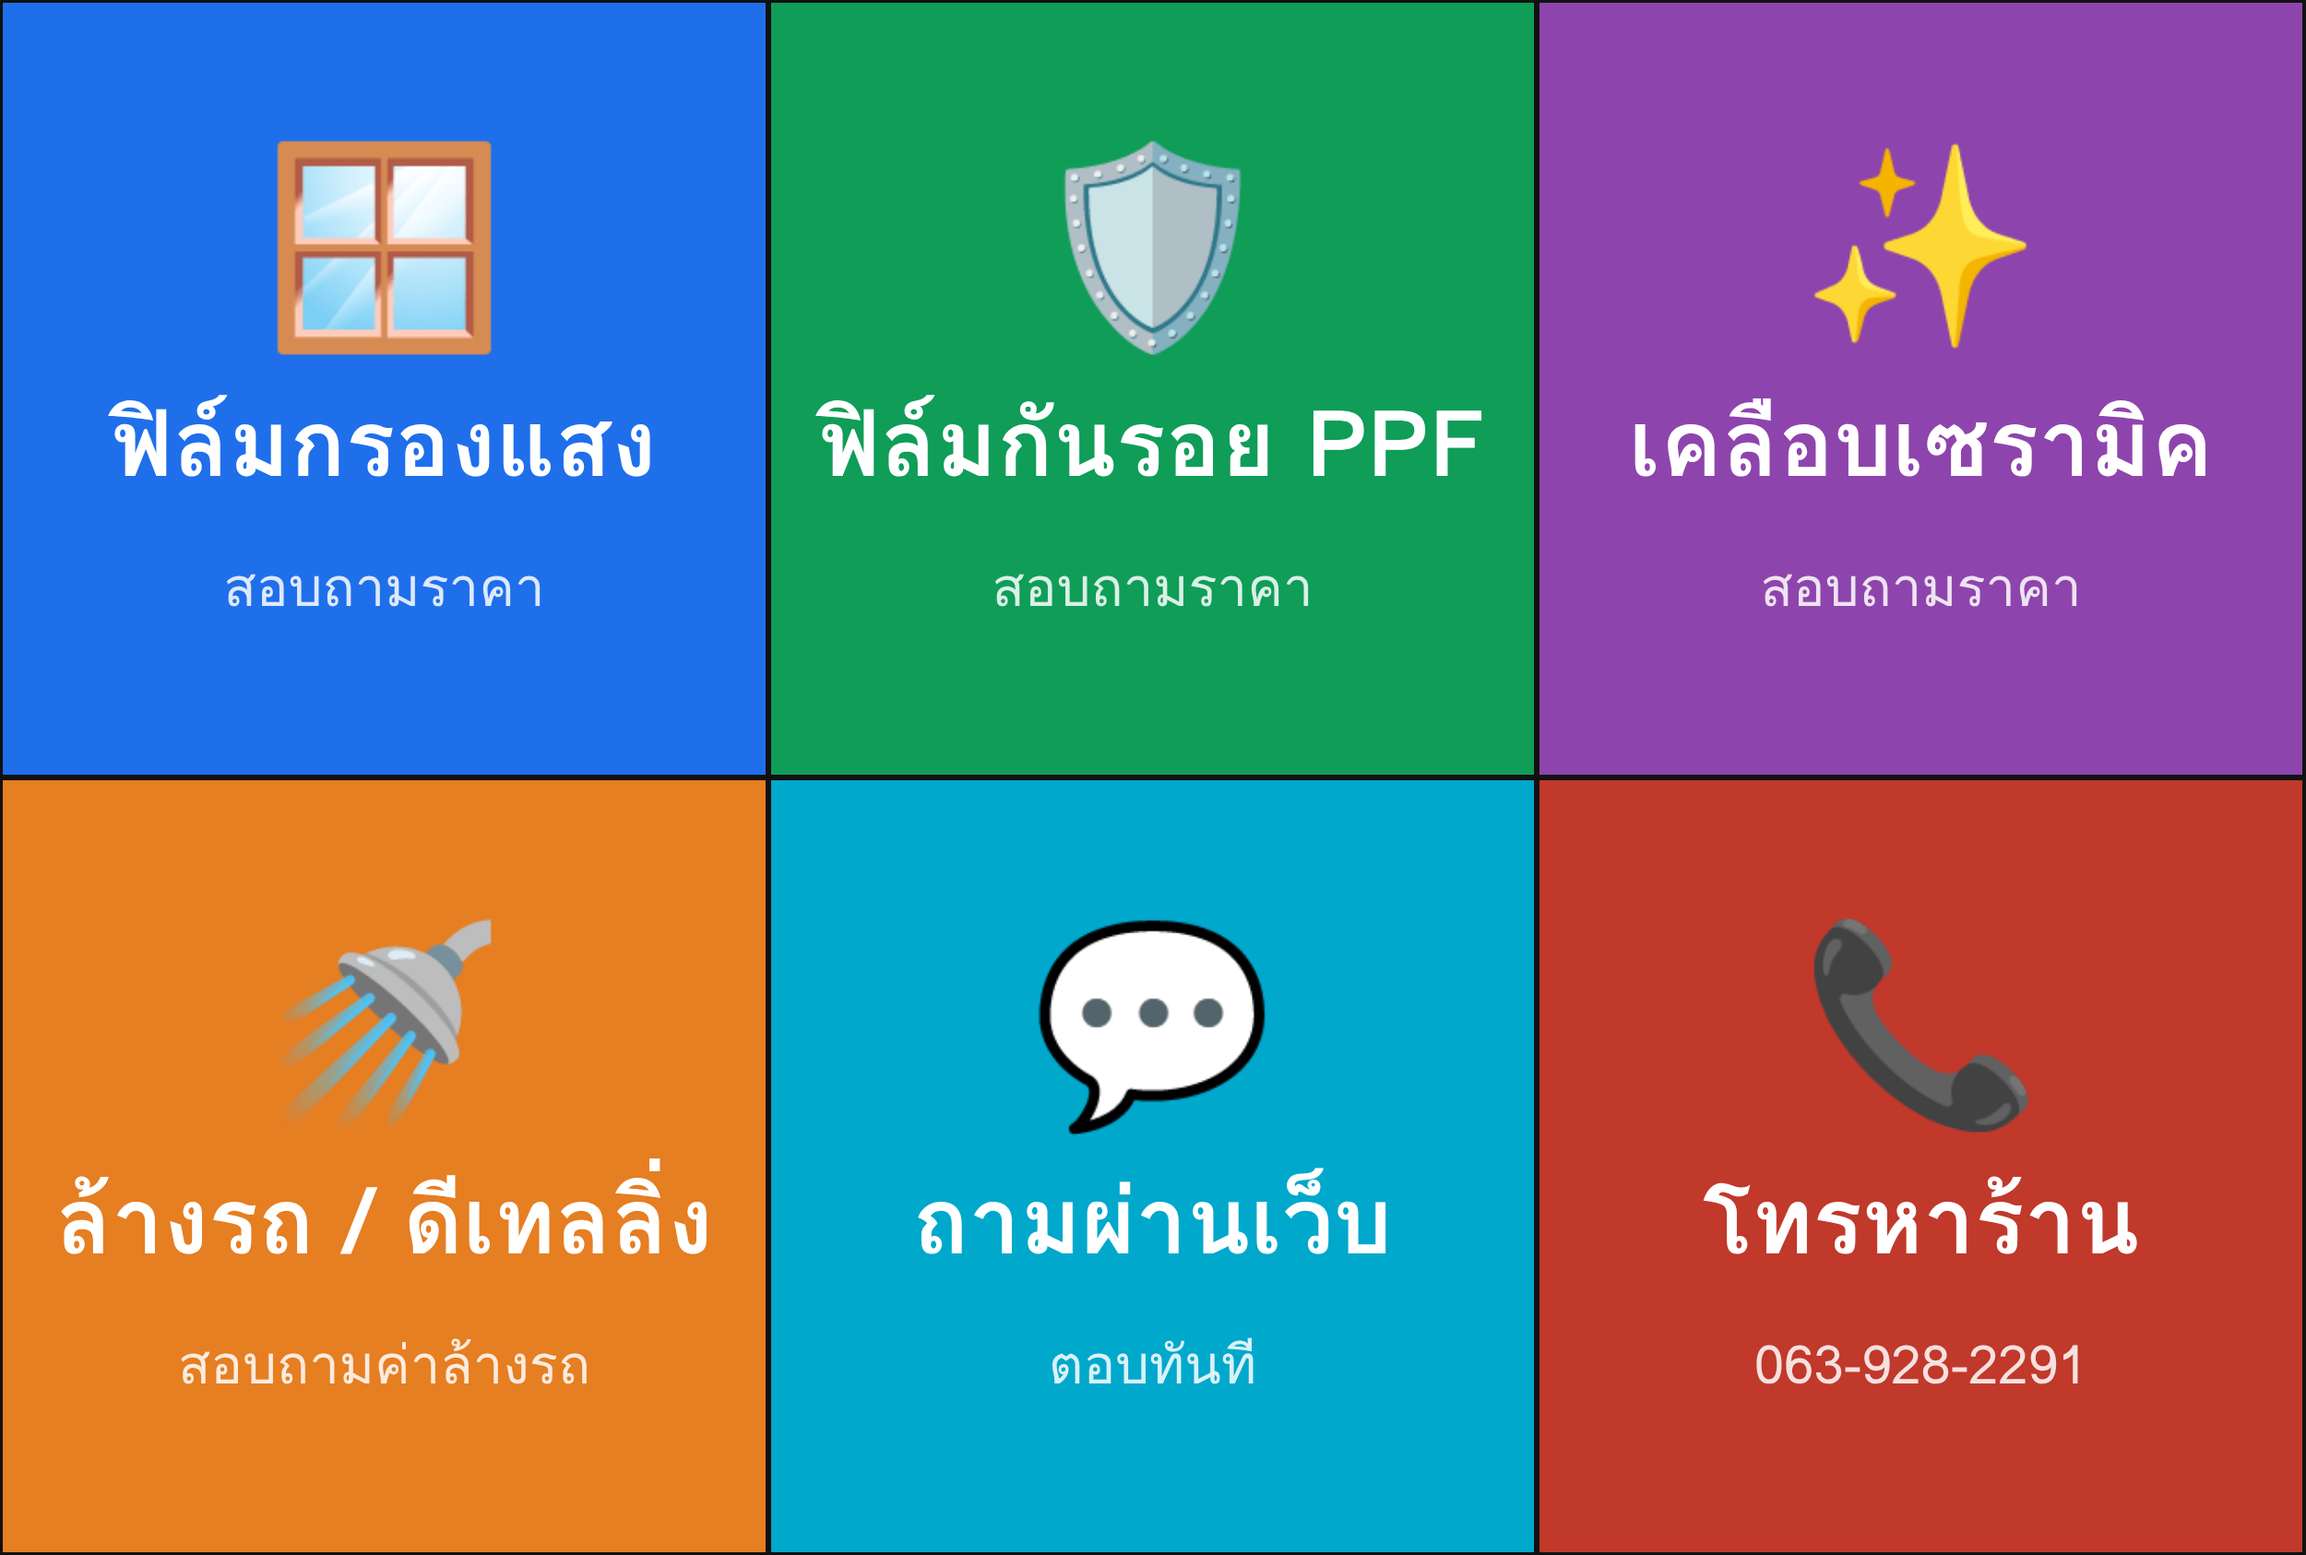
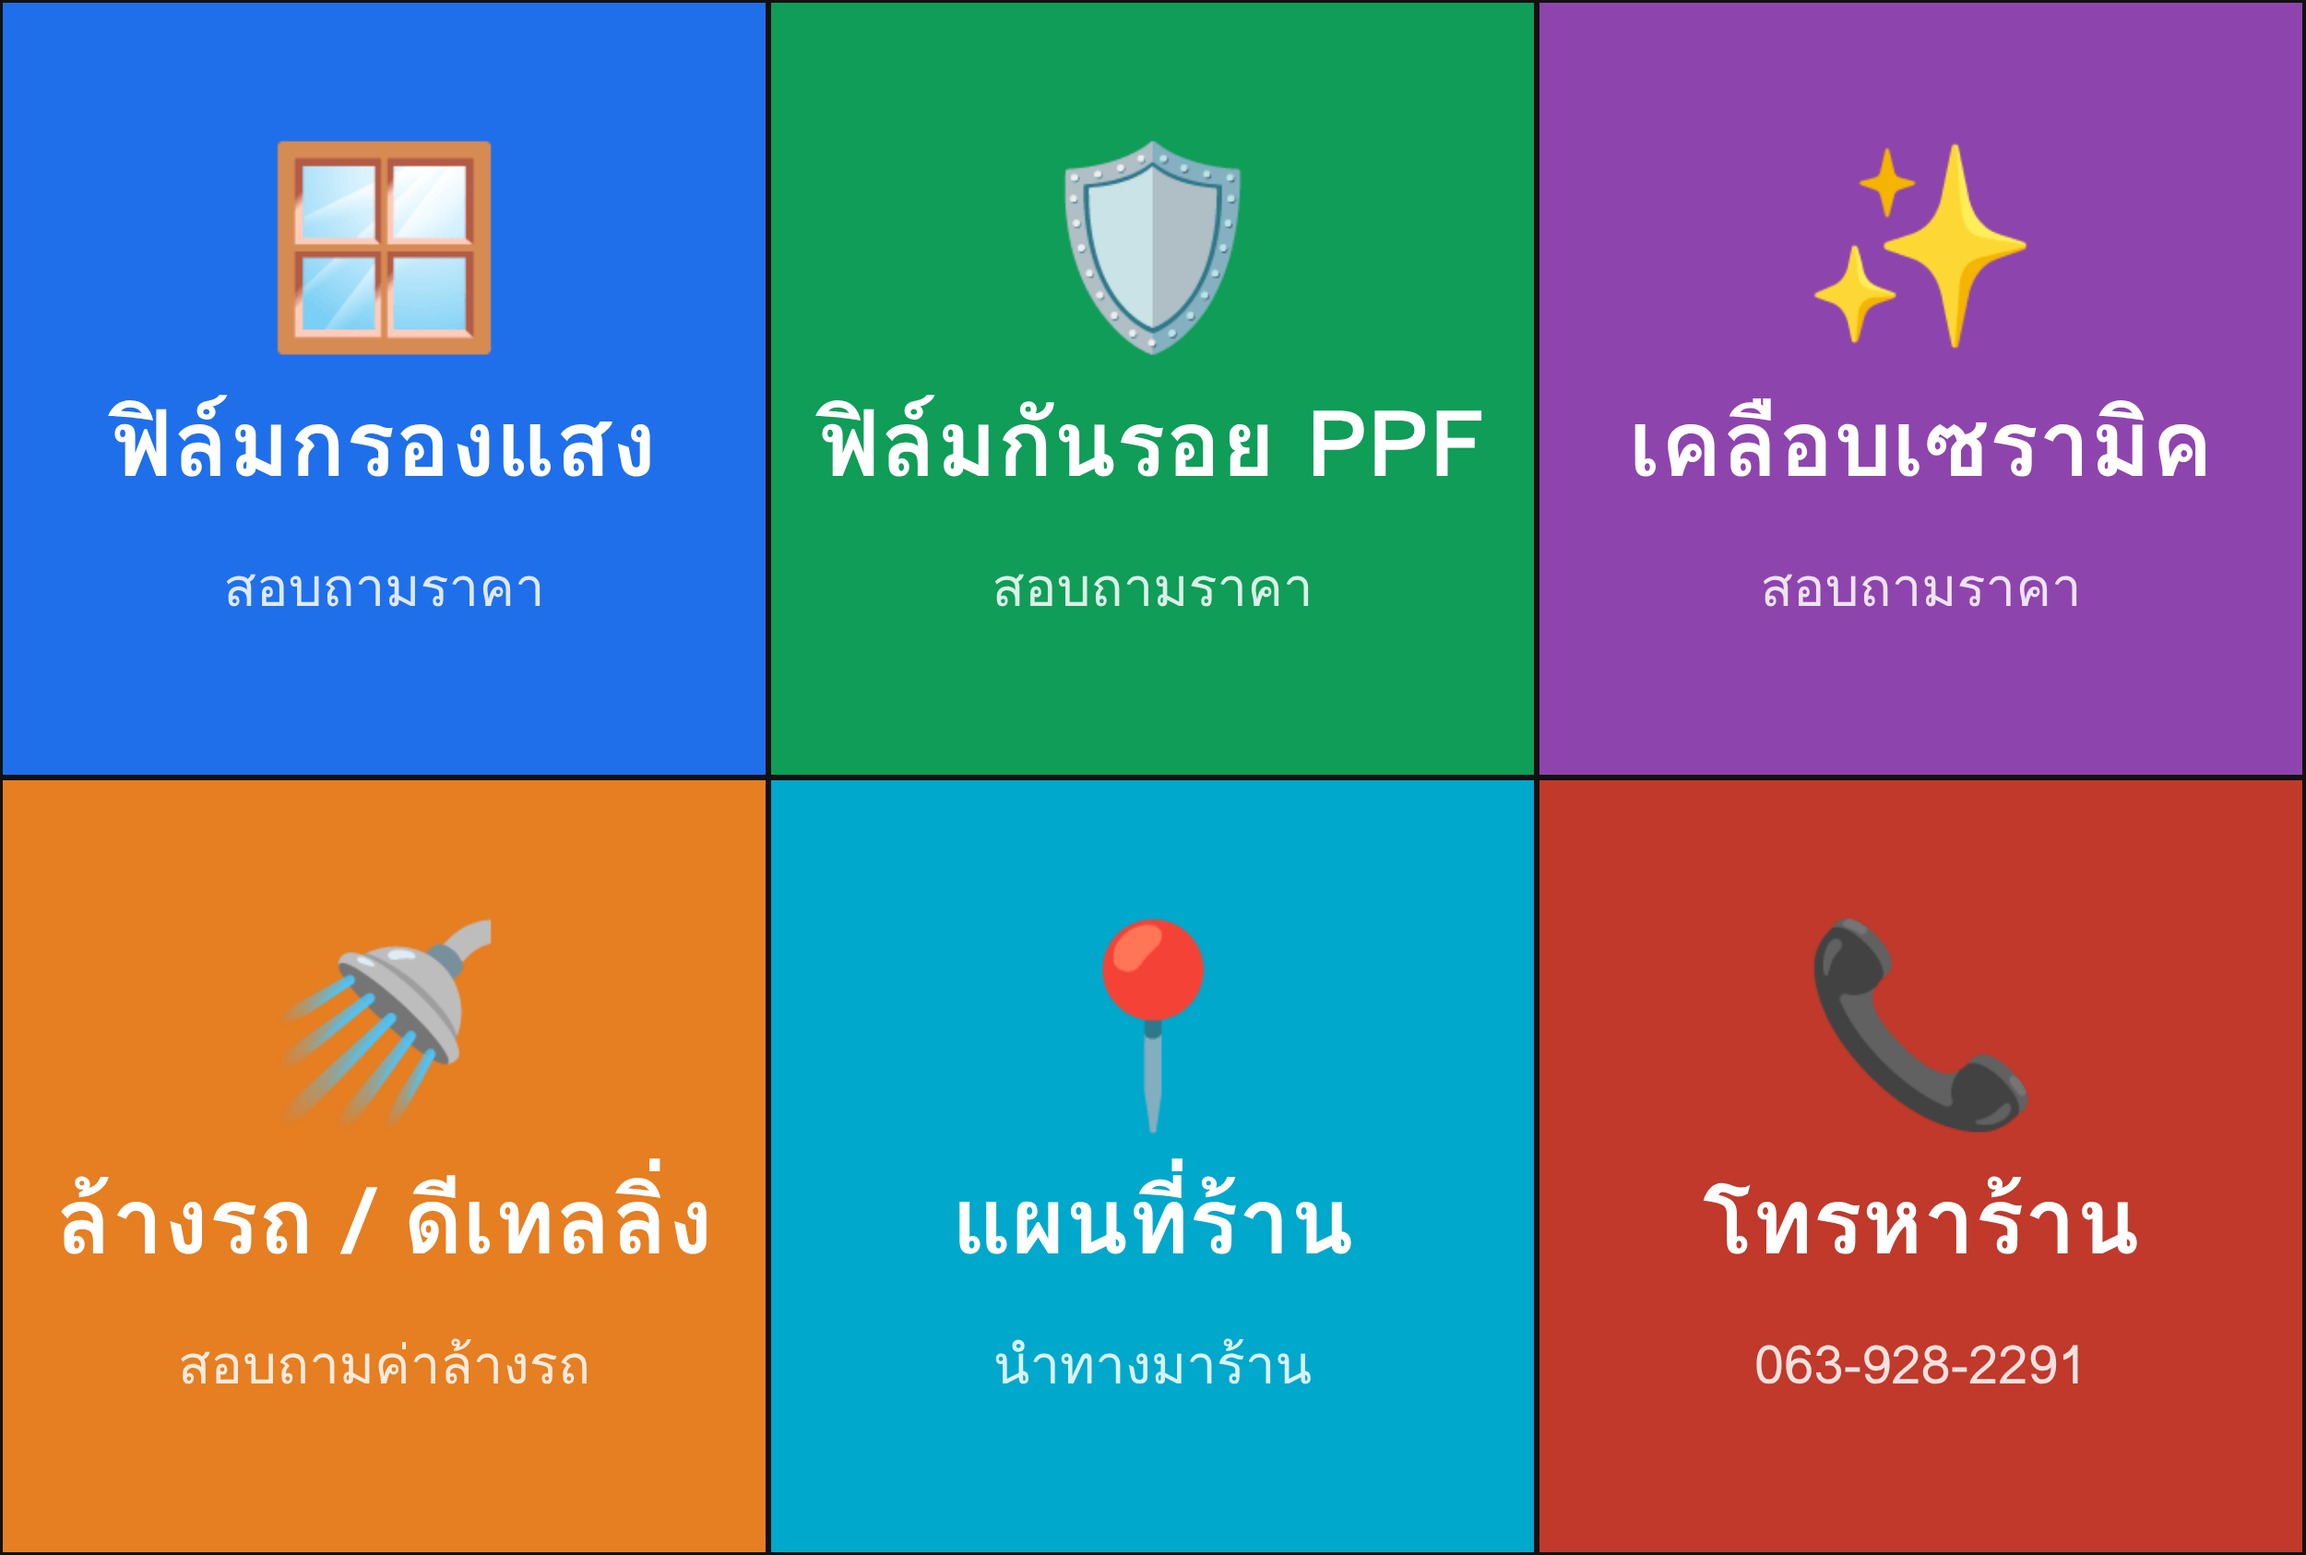
richmenu: replace web-chat button with store map
Claude-Session: https://claude.ai/code/session_01D9g5fuB4nTXPxVKsfPWwLP

Changed region(s): [[0.4368, 0.586, 0.5616, 0.7402], [0.3744, 0.7402, 0.624, 0.8327], [0.4368, 0.8636, 0.5616, 0.8944]]

diff --git a/src/worker.js b/src/worker.js
@@ -173,7 +173,7 @@ async function api(req, env, url) {
     const W = 2500, hh = 843, cw = [833, 833, 834];
     const msgA = (t) => ({ type: "message", text: t });
     const acts = [msgA("สนใจฟิล์มกรองแสง ขอข้อมูลหน่อยครับ"), msgA("สนใจฟิล์มกันรอย PPF ขอข้อมูลหน่อยครับ"), msgA("สนใจเคลือบเซรามิค ขอข้อมูลหน่อยครับ"),
-      msgA("สอบถามค่าล้างรถ/ดีเทลลิ่งหน่อยครับ"), { type: "uri", uri: "https://karnet.org/pub/" }, { type: "uri", uri: "tel:0639282291" }];
+      msgA("สอบถามค่าล้างรถ/ดีเทลลิ่งหน่อยครับ"), { type: "uri", uri: "https://maps.app.goo.gl/AyGSkesaLNgTcUkR8?g_st=ic" }, { type: "uri", uri: "tel:0639282291" }];
     const areas = acts.map((a, i) => ({ bounds: { x: cw.slice(0, i % 3).reduce((x, y) => x + y, 0), y: Math.floor(i / 3) * hh, width: cw[i % 3], height: hh }, action: a }));
     const r1 = await fetch("https://api.line.me/v2/bot/richmenu", { method: "POST", headers: { ...H, "content-type": "application/json" },
       body: JSON.stringify({ size: { width: W, height: hh * 2 }, selected: true, name: "cs-menu", chatBarText: "สอบถามราคา", areas }) });
